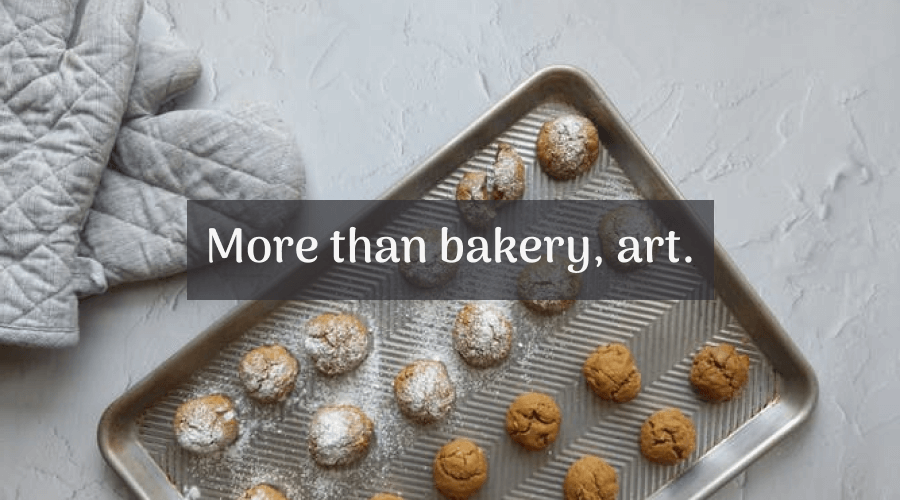
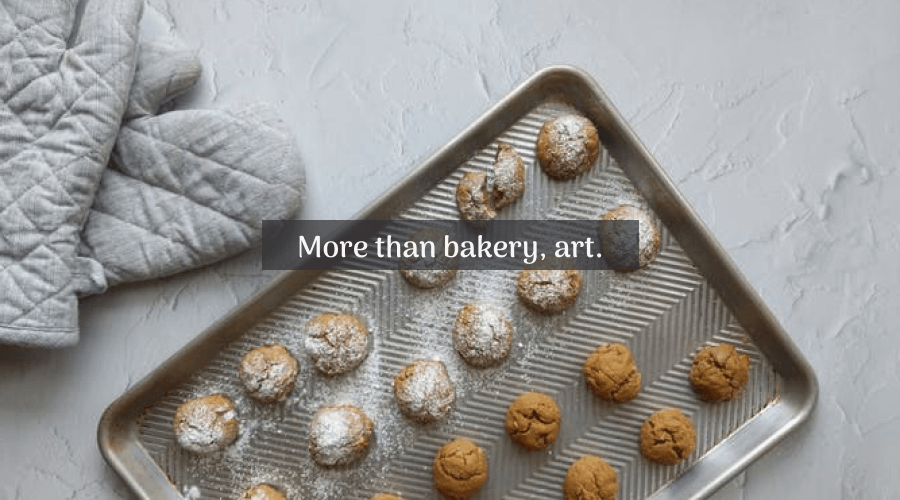
Add nav details, change carousel images and code

Changed region(s): [[0.1867, 0.39, 0.8089, 0.6]]

diff --git a/public/styles/styles.css b/public/styles/styles.css
@@ -7187,11 +7187,13 @@ a.text-dark:hover, a.text-dark:focus {
     color: inherit;
     border-color: #dee2e6; } }
 
+/* About variables */
 header {
   width: 100%;
   align-content: center;
   position: absolute;
-  z-index: 9; }
+  z-index: 9;
+  background-color: rgba(123, 40, 54, 0.35); }
 
 #btn_menu {
   display: none; }
@@ -7228,36 +7230,38 @@ header label:hover {
   font-family: "Arima Madurai"; }
 
 .main_menu ul li:nth-child(3) {
+  color: #f6f4f5;
   font-family: "Great Vibes", cursive;
   font-size: 40px;
   padding-left: 50px;
   padding-right: 50px; }
 
 .main_menu ul li a {
-  color: #161214;
+  color: #f6f4f5;
   font-size: 20px;
   text-decoration: none;
   display: block;
   padding: 15px 25px; }
 
 .main_menu ul li a:hover {
-  color: #7B2836; }
+  color: #7b2836; }
 
 @media (max-width: 777px) {
   .nav-container {
     display: flex; }
   header {
-    background-color: transparent; }
+    background-color: rgba(123, 40, 54, 0.35); }
   header label {
     display: block; }
   header div {
+    color: #f6f4f5;
     font-family: "Great Vibes", cursive;
     font-size: 40px; }
   .main_menu {
     position: absolute;
     width: 100%;
     margin-left: -110%;
-    background: #F6F4F5;
+    background: #f6f4f5;
     transition: all 0.5s; }
   .main_menu ul {
     flex-direction: column;
@@ -7268,55 +7272,19 @@ header label:hover {
     display: none; }
   .main_menu ul li:nth-child(5) {
     border-bottom: 1px solid #161214; }
+  .main_menu ul li a {
+    color: #161214; }
   #btn_menu:checked ~ .main_menu {
     margin: 0; } }
 
-#slider {
-  overflow: hidden; }
-
-#slider figure {
-  position: relative;
-  width: 500%;
-  margin: 0;
-  left: 0;
-  animation: 20s slider infinite; }
-
-.slider-main-section-container #slider figure img {
-  width: 20%;
-  height: 100vh;
-  float: left;
-  background-position: center center;
-  background-size: cover;
-  background-repeat: no-repeat; }
-
-@keyframes slider {
-  0% {
-    left: 0; }
-  20% {
-    left: 0; }
-  25% {
-    left: -100%; }
-  45% {
-    left: -100%; }
-  50% {
-    left: -200%; }
-  70% {
-    left: -200%; }
-  75% {
-    left: -300%; }
-  95% {
-    left: -300%; }
-  100% {
-    left: -400%; } }
-
 #carouselControls .carousel-inner .carousel-item img {
-  background-size: cover;
-  background-position: center 200px;
-  background-repeat: no-repeat; }
+  background-position: center center;
+  background-repeat: no-repeat;
+  object-fit: cover; }
 
 .divider-main-section-container {
   background: #594851;
-  color: white;
+  color: #f6f4f5;
   display: flex;
   justify-content: center;
   align-items: center; }
@@ -7482,67 +7450,6 @@ header label:hover {
 /* Medium devices (landscape tablets, 768px and up) */
 /* Large devices (laptops/desktops, 992px and up) */
 /* Extra large devices (large laptops and desktops, 1200px and up) */
-:root {
-  --size-font-title: 4em;
-  --size-font-text: 2em;
-  --pad-top-text: 40px;
-  --margin-height-text: 0;
-  --margin-width-text: 50px; }
-
-/* mini small devices (phones, 600px and down) */
-@media only screen and (min-width: 0px) and (max-width: 575px) {
-  :root {
-    --size-font-title: 3em;
-    --size-font-text: 1.4em;
-    --pad-top-text: 30px;
-    --margin-height-text: 0;
-    --margin-width-text: 20px; } }
-
-/* Extra small devices (phones, 600px and down) */
-@media only screen and (min-width: 576px) and (max-width: 599px) {
-  :root {
-    --size-font-title: 3.2em;
-    --size-font-text: 1.5em;
-    --pad-top-text: 30px;
-    --margin-height-text: 0;
-    --margin-width-text: 20px; } }
-
-/* Small devices (portrait tablets and large phones, 600px and up) */
-@media only screen and (min-width: 600px) and (max-width: 767px) {
-  :root {
-    --size-font-title: 3.2em;
-    --size-font-text: 1.6em;
-    --pad-top-text: 30px;
-    --margin-height-text: 0;
-    --margin-width-text: 20px; } }
-
-/* Medium devices (landscape tablets, 768px and up) */
-@media only screen and (min-width: 768px) and (max-width: 991px) {
-  :root {
-    --size-font-title: 3.5em;
-    --size-font-text: 1.8em;
-    --pad-top-text: 30px;
-    --margin-height-text: 0;
-    --margin-width-text: 25px; } }
-
-/* Large devices (laptops/desktops, 992px and up) */
-@media only screen and (min-width: 992px) and (max-width: 1199px) {
-  :root {
-    --size-font-title: 4em;
-    --size-font-text: 2em;
-    --pad-top-text: 40px;
-    --margin-height-text: 0;
-    --margin-width-text: 50px; } }
-
-/* Extra large devices (large laptops and desktops, 1200px and up) */
-@media only screen and (min-width: 1200px) {
-  :root {
-    --size-font-title: 4em;
-    --size-font-text: 2em;
-    --pad-top-text: 40px;
-    --margin-height-text: 0;
-    --margin-width-text: 50px; } }
-
 .about {
   position: relative;
   width: 100%;
@@ -7574,14 +7481,17 @@ header label:hover {
       flex-direction: column;
       justify-content: center;
       text-align: center; }
-      .about .about-content .about-container-text h1 {
-        font-size: var(--size-font-title); }
       .about .about-content .about-container-text p {
-        font-size: var(--size-font-text);
+        font-size: 1.6em;
         font-family: "Arima Madurai", cursive;
-        padding-top: var(--pad-top-text);
-        margin: var(--margin-height-text) var(--margin-width-text); }
+        padding-top: 40px;
+        margin: 0 50px; }
 
+/* Extra small devices (phones, 600px and down) */
+/* Small devices (portrait tablets and large phones, 600px and up) */
+/* Medium devices (landscape tablets, 768px and up) */
+/* Large devices (laptops/desktops, 992px and up) */
+/* Extra large devices (large laptops and desktops, 1200px and up) */
 .contact-container {
   display: flex;
   justify-content: center; }
@@ -7837,7 +7747,8 @@ header label:hover {
     grid-template-areas: "location      live_chat   live_chat" "location      follow      follow" "freelance     freelance   freelance"; } }
 
 h1 {
-  font-family: "Great Vibes", cursive; }
+  font-family: "Great Vibes", cursive;
+  font-size: 4em; }
 
 h2 {
   font-family: "Arima Madurai", cursive; }
@@ -7859,3 +7770,10 @@ body {
 .our-stars-main-section-container h1,
 .contact-main-section-container h1 {
   margin-bottom: 20px; }
+
+/* Mini small devices (phones, 600px and down) */
+/* Extra small devices (phones, 600px and down) */
+/* Small devices (portrait tablets and large phones, 600px and up) */
+/* Medium devices (landscape tablets, 768px and up) */
+/* Large devices (laptops/desktops, 992px and up) */
+/* Extra large devices (large laptops and desktops, 1200px and up) */

diff --git a/src/styles/components/nav.scss b/src/styles/components/nav.scss
@@ -1,4 +1,4 @@
-header {width:100%; align-content: center; position: absolute; z-index: 9;}
+header {width:100%; align-content: center; position: absolute; z-index: 9; background-color: rgba($color: $color-wine, $alpha: 0.35);}
 #btn_menu {display: none;}
 header label {display: none; align-content:center; width: 30px; padding: 10px; }
 header label:hover {cursor:pointer;}
@@ -7,19 +7,20 @@ header label:hover {cursor:pointer;}
 .main_menu {margin: 0; width: auto; z-index: 9; }
 .main_menu ul{margin: 0; padding: 0; list-style: none; display:flex; justify-content: center;}
 .main_menu ul li{float: none; font-family: "Arima Madurai";}
-.main_menu ul li:nth-child(3){font-family: "Great Vibes", cursive; font-size: 40px; padding-left: 50px; padding-right: 50px;}
-.main_menu ul li a{color: #161214; font-size: 20px; text-decoration: none; display: block; padding: 15px 25px;}
-.main_menu ul li a:hover{color: #7B2836}
+.main_menu ul li:nth-child(3){color: $color-background; font-family: "Great Vibes", cursive; font-size: 40px; padding-left: 50px; padding-right: 50px;}
+.main_menu ul li a{color: $color-background; font-size: 20px; text-decoration: none; display: block; padding: 15px 25px;}
+.main_menu ul li a:hover{color: $color-wine}
 
 @media (max-width: 777px) {
     .nav-container{display:flex;}
-    header {background-color: transparent;}
+    header {background-color: rgba($color: $color-wine, $alpha: 0.35) ;}
     header label {display: block;}
-    header div {font-family: "Great Vibes", cursive; font-size: 40px;}
-    .main_menu {position:absolute; width: 100%; margin-left:-110%; background: #F6F4F5; transition: all 0.5s;}
+    header div {color: $color-background ;font-family: "Great Vibes", cursive; font-size: 40px;}
+    .main_menu {position:absolute; width: 100%; margin-left:-110%; background: $color-background; transition: all 0.5s;}
     .main_menu ul {flex-direction: column; text-align: center;}
-    .main_menu ul li {border-top: 1px solid #161214;}
+    .main_menu ul li {border-top: 1px solid $color-text;}
     .main_menu ul li:nth-child(3){display: none;}
-    .main_menu ul li:nth-child(5){border-bottom: 1px solid #161214;}
+    .main_menu ul li:nth-child(5){border-bottom: 1px solid $color-text;}
+    .main_menu ul li a{color: $color-text; }
     #btn_menu:checked ~ .main_menu {margin: 0;}
 }

diff --git a/src/styles/components/carrusel.scss b/src/styles/components/carrusel.scss
@@ -1,63 +1,3 @@
-// #slider {
-// 	overflow: hidden;
-// }
-
-// #slider figure {
-// 	position: relative;
-// 	width: 500%;
-// 	margin: 0;
-// 	left: 0;
-// 	animation: 20s slider infinite;
-// }
-
-// // #slider figure img {
-// // 	width: 20%;
-// // 	float: left;
-// // }
-
-// .slider-main-section-container {
-// 	#slider figure img {
-// 		width: 20%;
-// 		height: 100vh;
-// 		float: left;
-// 		background: {
-// 			position: center center;
-// 			size: cover;
-// 			repeat: no-repeat;
-// 		}
-// 	}
-// }
-
-// @keyframes slider {
-// 	0% {
-// 		left: 0;
-// 	}
-// 	20% {
-// 		left: 0;
-// 	}
-// 	25% {
-// 		left: -100%;
-// 	}
-// 	45% {
-// 		left: -100%;
-// 	}
-// 	50% {
-// 		left: -200%;
-// 	}
-// 	70% {
-// 		left: -200%;
-// 	}
-// 	75% {
-// 		left: -300%;
-// 	}
-// 	95% {
-// 		left: -300%;
-// 	}
-// 	100% {
-// 		left: -400%;
-// 	}
-// }
-
 #carouselControls .carousel-inner .carousel-item img {
 	background: {
 		// size: cover;

diff --git a/views/partials/nav.html b/views/partials/nav.html
@@ -2,14 +2,14 @@
     <!-- MOBILE NAV-->
     <input type="checkbox" id="btn_menu">
     <div class="nav-container">
-        <label for="btn_menu"><img src="/assets/images/icons/Icono_menu.png" width="30px" height="30px" alt=""></label>
+        <label for="btn_menu"><img src="/assets/images/icons/Icono_menu.png" width="50px" height="50px" alt=""></label>
         <div>Sweet Room</div>
         <div>  </div>
     </div>
 
     <!-- NAVEGATION BAR -->
     <nav class="main_menu">
-        <ul>
+        <ul class="shadow-lg">
             <li><a href="#menu">Menu</a></li>
             <li><a href="#our-stars">Our Stars</a></li>
             <li>Sweet Room</li>

diff --git a/views/partials/carrusel.html b/views/partials/carrusel.html
@@ -1,15 +1,3 @@
-<!-- <div class="slider-main-section-container">
-    <div id="slider">
-        <figure>
-            <img src="/assets/images/banner/banner_cupcake.png">
-            <img src="/assets/images/banner/banner_galletas.png">
-            <img src="/assets/images/banner/banner_pastel.png">
-            <img src="/assets/images/banner/banner_macarons.png">
-            <img src="/assets/images/banner/banner_cupcake.png">
-        </figure>
-    </div>
-</div> -->
-
 <div id="carouselControls" class="carousel slide" data-ride="carousel">
     <div class="carousel-inner">
         <div class="carousel-item active">

diff --git a/src/styles/components/divider.scss b/src/styles/components/divider.scss
@@ -1,6 +1,6 @@
 .divider-main-section-container {
     background: $color-footer;
-    color: white;
+    color: $color-background;
     display: flex;
     justify-content: center;
     align-items: center;
